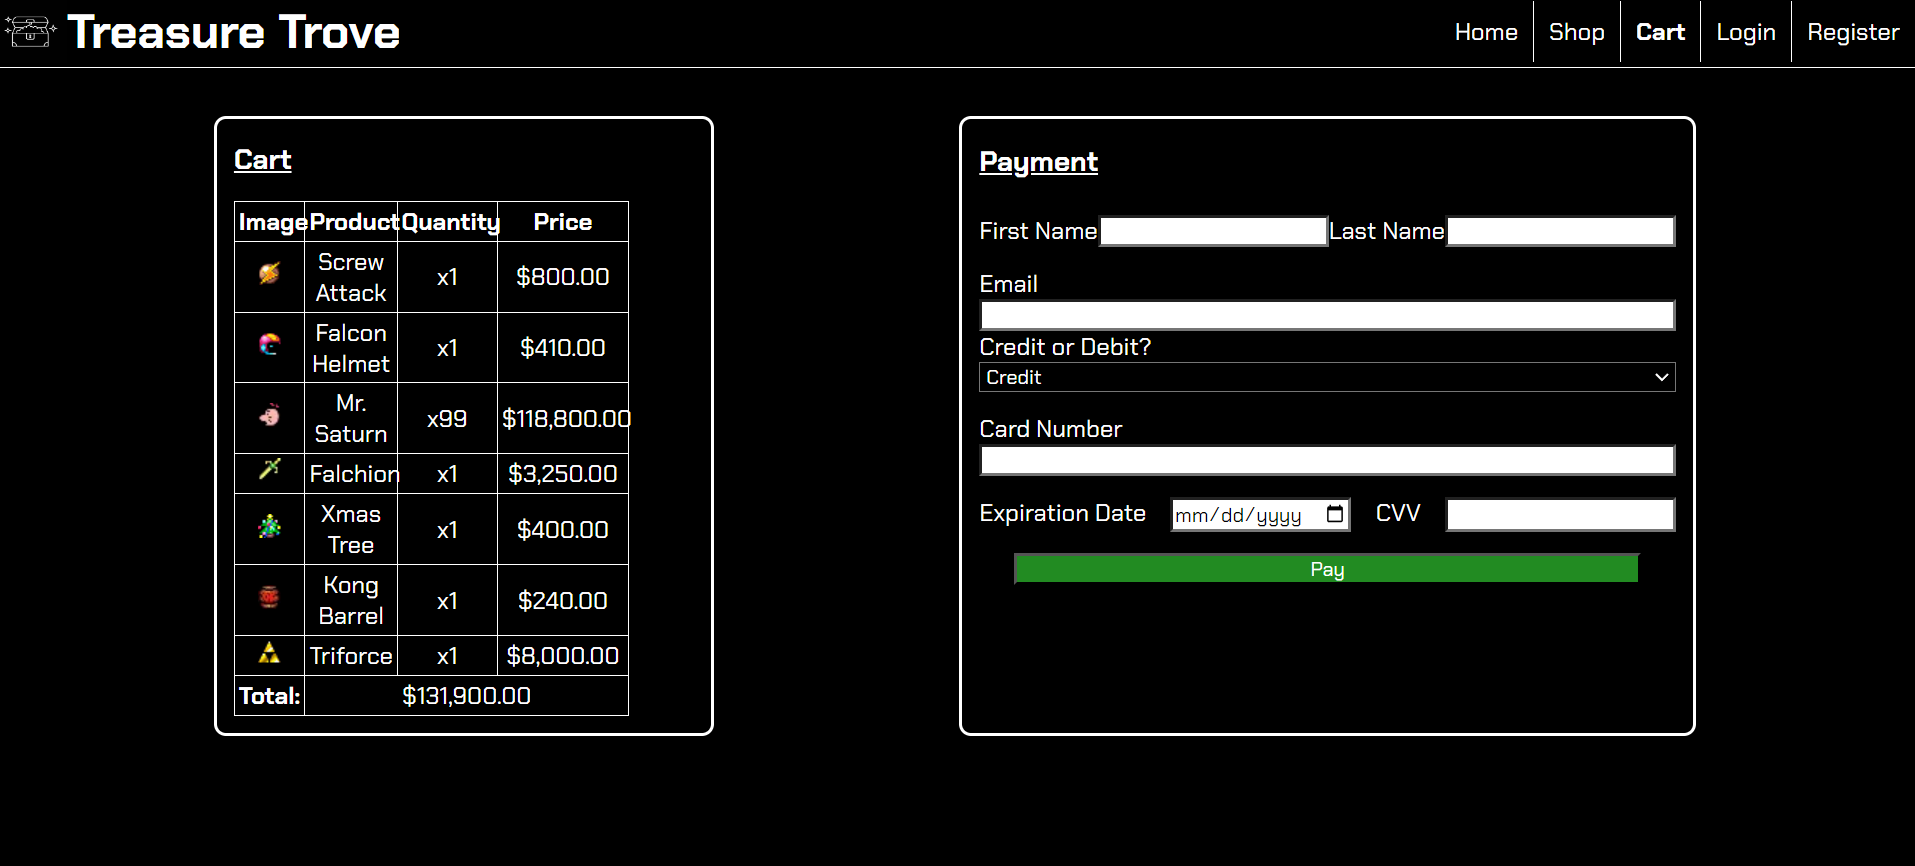
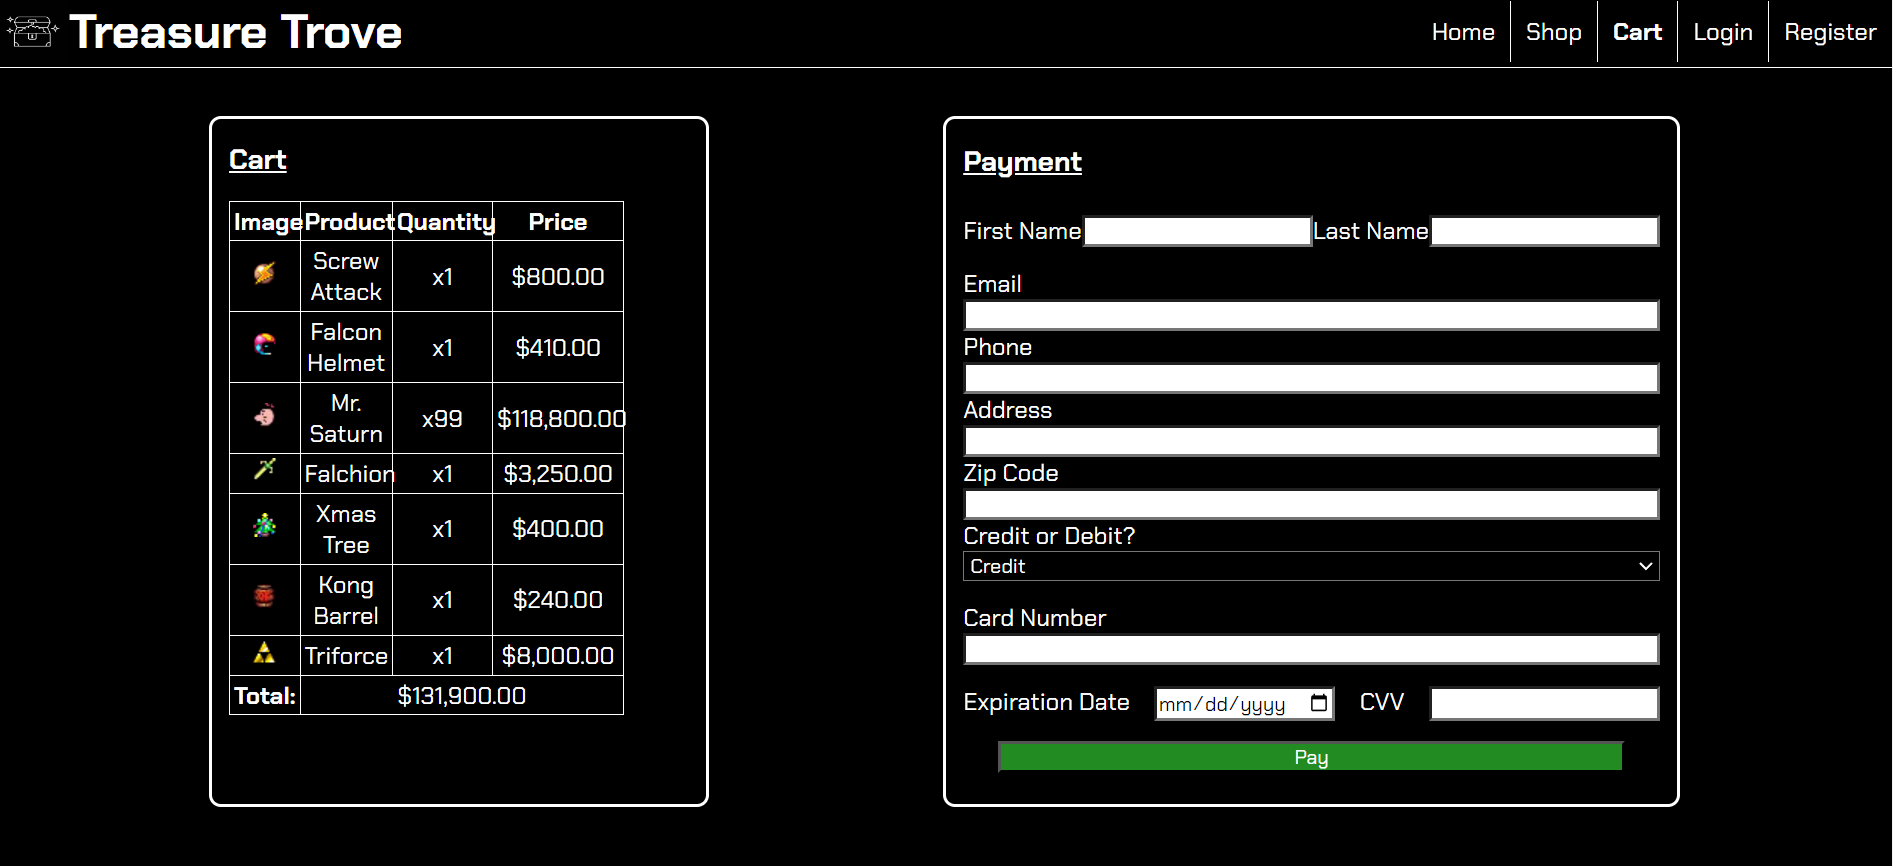
added input fields on register page, reflected changes in README, updated home page paragraph

diff --git a/index.html b/index.html
@@ -33,7 +33,8 @@
         <article>
             <!-- An h tag of any number needs to be in this article tag for HTML validation -->
             <h2>Welcome!</h2>
-            <p> Welcome to Treasure Trove! Here we sell in-game items for real-world cash. We exclusively take credit
+            <p> Welcome to Treasure Trove! Here we sell in-game items for real-world cash. We are exclusive to the
+                United States for now but are hoping to expand soon! We accept credit and debit
                 cards and any products purchased are sent via a redemption code with the e-mail provided at
                 checkout.</p>
             <!-- We're repeating "English" instead of lorem beacuse lorem annoyed the "lang" attribute on line 2 when validating-->

diff --git a/checkout.html b/checkout.html
@@ -105,8 +105,13 @@
                 </div>
                 <label>Email</label>
                 <input required type="email">
+                <label>Phone</label>
+                <input required type="tel" maxlength="10" minlength="10">
+                <label>Address</label>
+                <input required type="text">
+                <label>Zip Code</label>
+                <input required type="number">
                 <label>Credit or Debit?</label>
-
                 <select name="Credit or Debit?">
                     <option value="credit">Credit</option>
                     <option value="debit">Debit</option>
